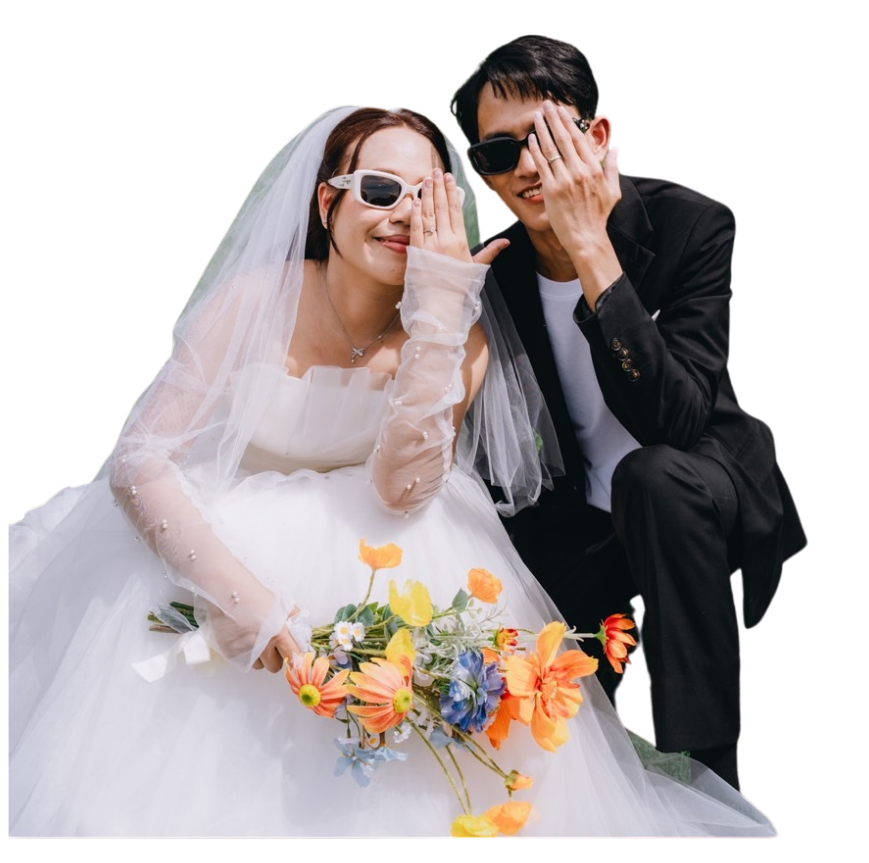
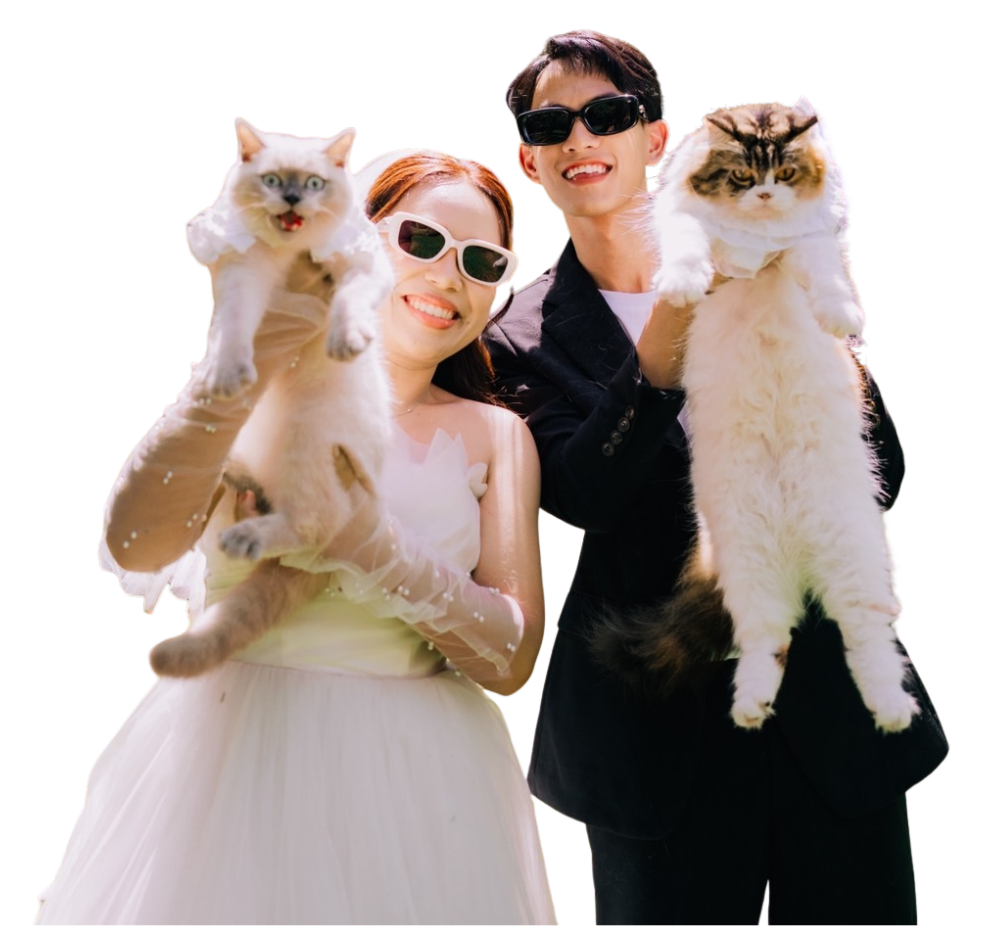
Add scene 2

diff --git a/app/components/scenes/Scene2.vue b/app/components/scenes/Scene2.vue
@@ -7,23 +7,53 @@ const props = defineProps({
   isActive: Boolean
 })
 
-const textRef = ref(null)
+const p2 = ref(null)
+const a21 = ref(null)
+const a22 = ref(null)
+const a23 = ref(null)
+const a24 = ref(null)
+const a25 = ref(null)
 
-const tl = gsap.timeline({ paused: true })
-watch(() => props.isActive, (active) => {
-  if (textRef.value.el) {
-    console.log(textRef.value)
-    if (tl.isActive()) tl.kill() // kill ongoing animation
-    if (active) {
-      tl.to(textRef.value.el, {
-        scale: 1,
-        opacity: 1,
-        duration: 1,
-        ease: "power3.out",
-      }).play()
-    } else {
-      tl.reverse()
+const playAnimation = () => {
+  gsap.to(p2.value, {
+    y: '0%',
+    duration: 1,
+    ease: "power3.out",
+  })
+  gsap.to(a22.value, {
+    x: '-50%',
+    opacity: 1,
+    duration: 1,
+    ease: "power3.out",
+    onComplete: () => {
+      gsap.to(a22.value, {
+        rotate: 360,
+        duration: 4,
+        repeat: -1,
+        ease: "linear"
+      })
     }
+  })
+}
+const resetAnimation = () => {
+  gsap.set(p2.value, {
+    y: '400%',
+  })
+  gsap.set(a22.value, {
+    x: '-100%',
+    opacity: 0,
+  })
+}
+
+onMounted(() => {
+  if (props.isActive) playAnimation()
+})
+
+watch(() => props.isActive, (newVal) => {
+  if (newVal) {
+    playAnimation()
+  } else {
+    resetAnimation()
   }
 })
 </script>
@@ -31,5 +61,18 @@ watch(() => props.isActive, (active) => {
 <template>
   <div class="relative h-[100dvh] w-screen">
     <img src="/images/bg.png" class="h-[100dvh] w-full object-cover" alt="bg" />
+    <p class="text-6xl font-c absolute top-[10%] right-[5%] rotate-[2deg]">แต่งงานแล้ว</p>
+    <img
+      ref="characterRef"
+      src="/images/character-2.png"
+      class="w-10/12 absolute z-10 left-[3%] bottom-[10%]"
+      alt="character-2"
+    />
+    <img ref="a21" src="/images/stickers/yellow-smile.png" alt="smile" class="absolute top-[10%] rotate-[5deg] w-[20%] left-[5%]">
+    <img ref="a22" src="/images/stickers/flower-dot.png" alt="flower" class="absolute top-[20%] rotate-[5deg] w-[50%] left-[0%]">
+    <img ref="a23" src="/images/stickers/sharp.png" alt="smile" class="absolute top-[30%] w-[15%] right-[5%]">
+    <img ref="a24" src="/images/stickers/roller.png" alt="smile" class="absolute top-[4%] w-[14%] right-[5%] rotate-[45deg]">
+    <img ref="a25" src="/images/stickers/white-flower.png" alt="smile" class="absolute top-[20%] w-[18%] right-[35%]">
+    <img ref="p2" src="/images/overlay-popup.png" alt="popup" class="absolute top-[75%] left-[-10%] z-50 scale-400 origin-top">
   </div>
 </template>

diff --git a/app/components/scenes/Scene1.vue b/app/components/scenes/Scene1.vue
@@ -145,7 +145,7 @@ watch(() => props.isActive, (newVal) => {
   <img src="/images/bg.png" class="h-screen object-cover" alt="bg" />
   <img
     ref="characterRef"
-    src="/images/character-1-1.png"
+    src="/images/character-1.png"
     class="w-10/12 absolute z-10 left-[3%]"
     alt="character-1"
   />
